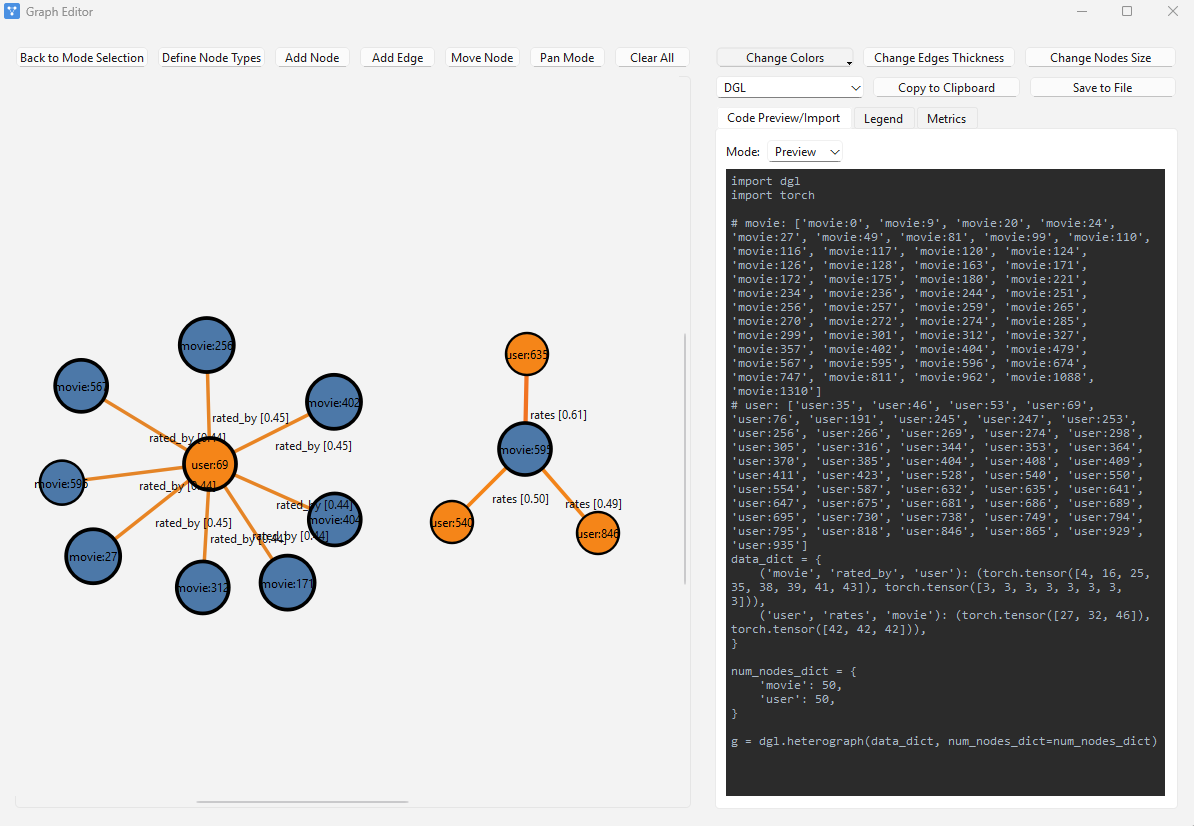
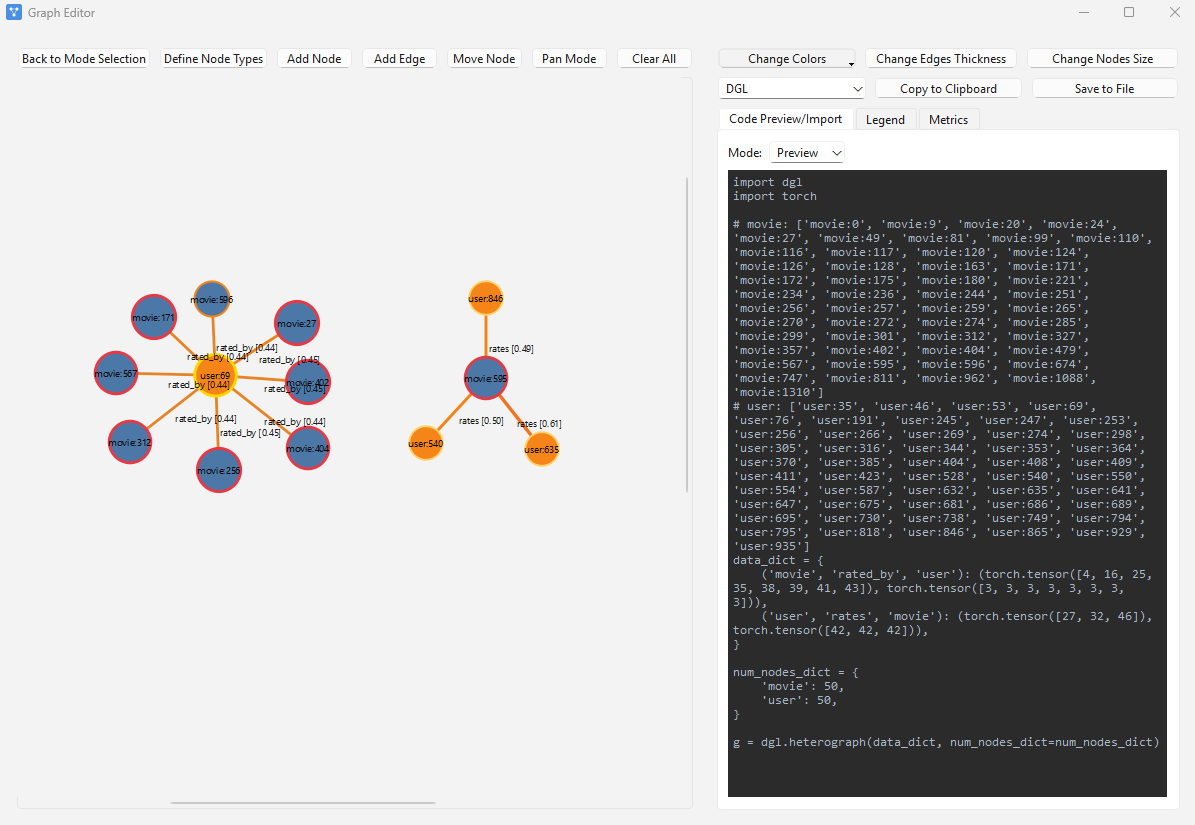
Add border color computation for nodes based on importance; update Node and GraphScene classes

diff --git a/views/graph_scene.py b/views/graph_scene.py
@@ -27,6 +27,34 @@ def hex_to_rgb(hex_color):
     )
 
 
+def compute_node_border_color(base_color: QColor, importance: float) -> QColor:
+    """
+    Compute a salient, high-contrast border/margin color reflecting node importance.
+    Based on the node fill color:
+    - Low importance (< 0.3): Subtle muted border tone (darkened base tone or slate #4A5568).
+    - Medium importance (0.3 - 0.65): Warm Amber / Saffron (#F58518).
+    - High importance (>= 0.65): Intense Crimson (#E63946) or Luminous Gold (#FFD700)
+      calibrated to contrast against the node fill color.
+    """
+    imp = max(0.0, min(1.0, float(importance)))
+    hue = base_color.hue()
+    is_warm = (0 <= hue <= 50) or (330 <= hue <= 359)
+
+    if imp >= 0.65:
+        if is_warm:
+            return QColor("#FFD700") if (base_color.red() > 200 and base_color.green() < 160) else QColor("#D90429")
+        else:
+            return QColor("#E63946")
+    elif imp >= 0.30:
+        if is_warm and base_color.red() > 200:
+            return QColor("#FFD166")
+        else:
+            return QColor("#F58518")
+    else:
+        darkened = base_color.darker(160)
+        return darkened if darkened.lightness() < 90 else QColor("#4A5568")
+
+
 class GraphScene(QGraphicsScene):
     graphModified = pyqtSignal()  # New signal for graph modifications
     
@@ -38,6 +66,13 @@ class GraphScene(QGraphicsScene):
         self.node_counter = 0
         self.selected_node = None
         self.mode = None 
+        self.moving_node = None
+        self.selected_edge = None
+        self.edge_start_node = None
+        self.temp_edge = None
+        self.color_dialog = None
+        self.legend_widget = None
+        self.type_counters = {}
         self.metrics_callback = None
         self.last_pan_pos = None
         self.moving_node = None  # Track the node being moved
@@ -76,13 +111,27 @@ class GraphScene(QGraphicsScene):
         color = QColor(*hex_to_rgb(color)) if isinstance(color, str) and color.startswith("#") else QColor(color)
 
         importance = attributes.get("importance", None) if attributes else None
+        custom_border = attributes.get("border_color", None) if attributes else None
+
+        if custom_border:
+            border_color = QColor(custom_border) if isinstance(custom_border, str) else QColor(*custom_border)
+        elif importance is not None:
+            border_color = compute_node_border_color(color, float(importance))
+        else:
+            border_color = QColor(Qt.GlobalColor.black)
+
         if importance is not None:
             node.importance = float(importance)
             node.radius = 18 + int(12 * float(importance))
             border_w = 1.5 + 3.0 * float(importance)
             node_pen = QPen(Qt.GlobalColor.black, border_w)
+            node_pen = QPen(border_color, border_w)
         else:
             node_pen = QPen(Qt.GlobalColor.black, 1.0)
+            border_w = float(attributes.get("border_width", 1.0)) if attributes else 1.0
+            node_pen = QPen(border_color, border_w)
+
+        node.border_color = border_color
 
         if self.mode_type == "Heterogeneous":
             if tipo not in self.node_types:

diff --git a/src/code_gen/explanation_code_gen.py b/src/code_gen/explanation_code_gen.py
@@ -77,6 +77,28 @@ def importance_to_hex(importance: float) -> str:
     return f"#{r:02x}{g:02x}{b:02x}"
 
 
+def node_importance_to_border_hex(base_color_hex: str, importance: float) -> str:
+    """
+    Compute border color hex reflecting node importance with contrast against base fill.
+    """
+    imp = max(0.0, min(1.0, float(importance)))
+    base_hex = base_color_hex.lstrip("#")
+    r = int(base_hex[0:2], 16) if len(base_hex) >= 2 else 0
+    g = int(base_hex[2:4], 16) if len(base_hex) >= 4 else 0
+    b = int(base_hex[4:6], 16) if len(base_hex) >= 6 else 0
+    is_warm = (r > 180 and g < 160 and b < 100) or (r > 200 and g > 100 and b < 50)
+
+    if imp >= 0.65:
+        return "#ffd700" if is_warm else "#e63946"
+    elif imp >= 0.30:
+        return "#ffd166" if is_warm else "#f58518"
+    else:
+        dr = max(0, int(r * 0.6))
+        dg = max(0, int(g * 0.6))
+        db = max(0, int(b * 0.6))
+        return f"#{dr:02x}{dg:02x}{db:02x}"
+
+
 def export_pyg_explanation_to_python(
     dataset: Data,
     explanation: Explanation,
@@ -139,6 +161,7 @@ def export_pyg_explanation_to_python(
             y = dataset.y[node].unsqueeze(0) if node < dataset.y.size(0) else dataset.y
             y = y.tolist() if y.size(0) > 1 or y.ndim > 1 else y.item()
             node_importance = float(raw_node_mask[node]) if raw_node_mask is not None and node < raw_node_mask.size(0) else 1.0
+            border_color = node_importance_to_border_hex("#B279A2", node_importance)
 
             attrs = {
                 "type": "Generic",
@@ -146,9 +169,11 @@ def export_pyg_explanation_to_python(
                 "shape": "Circle",
                 "pos": pos[node],
                 "importance": round(node_importance, 4),
+                "border_color": border_color,
             }
 
             f.write(f"G.add_node({repr(str(node))}, **{repr(attrs)})\n")
+
 
         f.write("\n")
 
@@ -260,15 +285,19 @@ def export_hetero_pyg_explanation_to_python(
                     pass
 
             node_importance = float(raw_nm[idx]) if raw_nm is not None and idx < raw_nm.size(0) else 1.0
+            node_color = node_styles[node_type]["color"]
+            border_color = node_importance_to_border_hex(node_color, node_importance)
 
             G.add_node(
                 node_id,
                 type=node_type,
                 description=description,
                 shape=node_styles[node_type]["shape"],
-                color=node_styles[node_type]["color"],
+                color=node_color,
                 importance=round(node_importance, 4),
+                border_color=border_color,
             )
+
 
     # ---------------------------------
     # Edges from explanation mask

diff --git a/models/node.py b/models/node.py
@@ -13,4 +13,6 @@ class Node:
         self.text_item = None
         self.radius = 20
         self.color = color
-        self.importance = self.attributes.get("importance", None)
+        self.importance = self.attributes.get("importance", None)
+        self.border_color = self.attributes.get("border_color", None)
+
